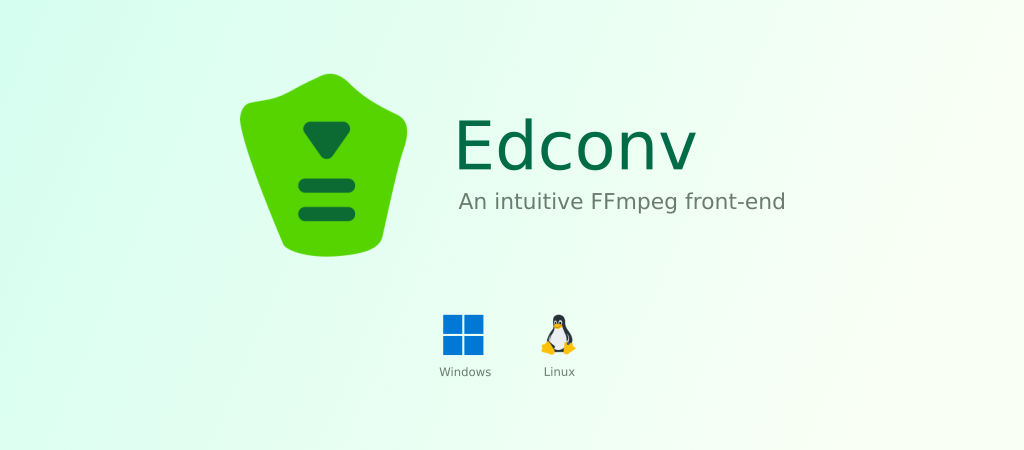
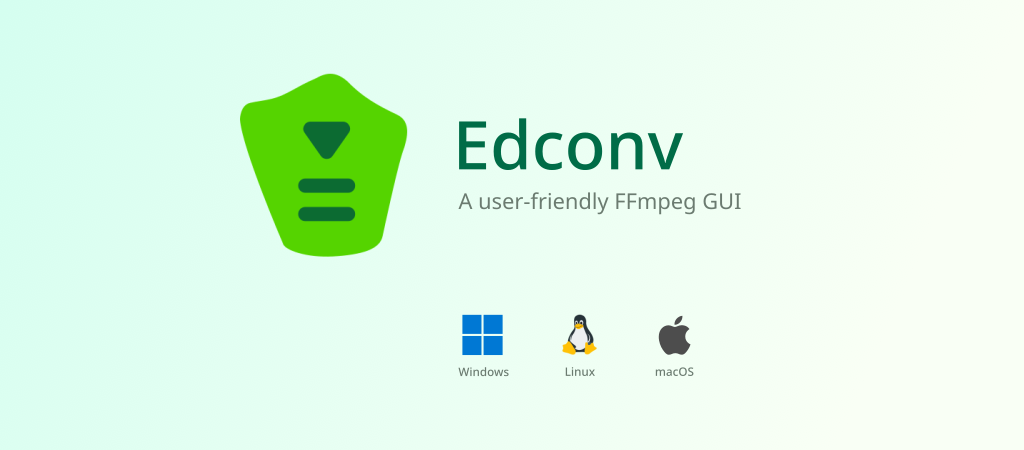
Update informations

diff --git a/README.md b/README.md
@@ -9,6 +9,7 @@ A user-friendly interface that simplifies the power of **FFmpeg**. It's designed
   <a href="https://github.com/edneyosf/Edconv/releases"><img src="https://img.shields.io/github/downloads/edneyosf/Edconv/total"/></a>
 
   <a href="https://github.com/edneyosf/Edconv/actions/workflows/linux-build.yml"><img src="https://github.com/edneyosf/Edconv/actions/workflows/linux-build.yml/badge.svg"/></a>
+  <a href="https://github.com/edneyosf/Edconv/actions/workflows/windows-build.yml"><img src="https://github.com/edneyosf/Edconv/actions/workflows/macos-build.yml/badge.svg"/></a>
   <a href="https://github.com/edneyosf/Edconv/actions/workflows/windows-build.yml"><img src="https://github.com/edneyosf/Edconv/actions/workflows/windows-build.yml/badge.svg"/></a>
 
   <h4>Download</h4> 
@@ -19,12 +20,17 @@ A user-friendly interface that simplifies the power of **FFmpeg**. It's designed
 
 ## Features ✨
 
-- Convert video and audio using FFmpeg
-- Custom FFmpeg arguments
-- Console mode (viewing logs at runtime)
-- Queue
-- Media Information
-- VMAF, PSNR and SSIM perceptual video quality assessment algorithm. **Must be enabled in the FFmpeg binaries to work properly**
+- You can convert video and audio using FFmpeg
+- You can queue multiple jobs and watch them process in real time
+- You can pass custom FFmpeg arguments if you want full control
+- You still see all the logs (so you know exactly what’s happening)
+- You can convert video and audio using FFmpeg
+- You can see all the media information
+- You can run VMAF, PSNR, SSIM analysis right inside the app
+
+> **⚠ Notice**
+>
+> To use VMAF, it must be enabled in the FFmpeg binaries.
 
 ## Screenshots
 
@@ -43,6 +49,10 @@ Download the latest release for your system from the [Releases page](https://git
 ### Windows:
 
 Run the installer as administrator and follow the installation steps.
+
+### macOS:
+
+Run the installer and follow the installation steps.
 
 ### Flatpak
 
@@ -74,11 +84,6 @@ chmod +x edconv-x.x.x-x86_64.AppImage
 ### Debian-based systems:  
 ```bash
 sudo apt install ./edconv_x.x.x.deb
-```
-
-### RPM-based systems:
-```bash
-sudo dnf install edconv_x.x.x.rpm
 ```
 
 ## Support & Donations
